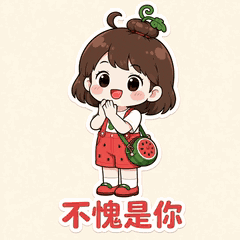
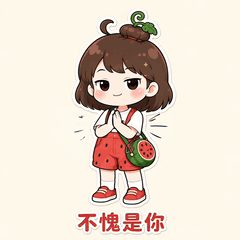
feat: gentler 生气 and clearer 不愧是你 (clap, thumbs-up, smirk)

Changed region(s): [[0.2625, 0.0, 0.7583, 0.9917]]

diff --git a/src/lib/packs.ts b/src/lib/packs.ts
@@ -290,11 +290,11 @@ export const PACKS: Pack[] = [
 ];
 
 export function stickerGif(packId: string, stickerId: string) {
-  return `/stickers/${packId}/${stickerId}.gif?v=93`;
+  return `/stickers/${packId}/${stickerId}.gif?v=94`;
 }
 
 export function stickerPng(packId: string, stickerId: string) {
-  return `/stickers/${packId}/${stickerId}.png?v=93`;
+  return `/stickers/${packId}/${stickerId}.png?v=94`;
 }
 
 export function getPack(id: string) {
